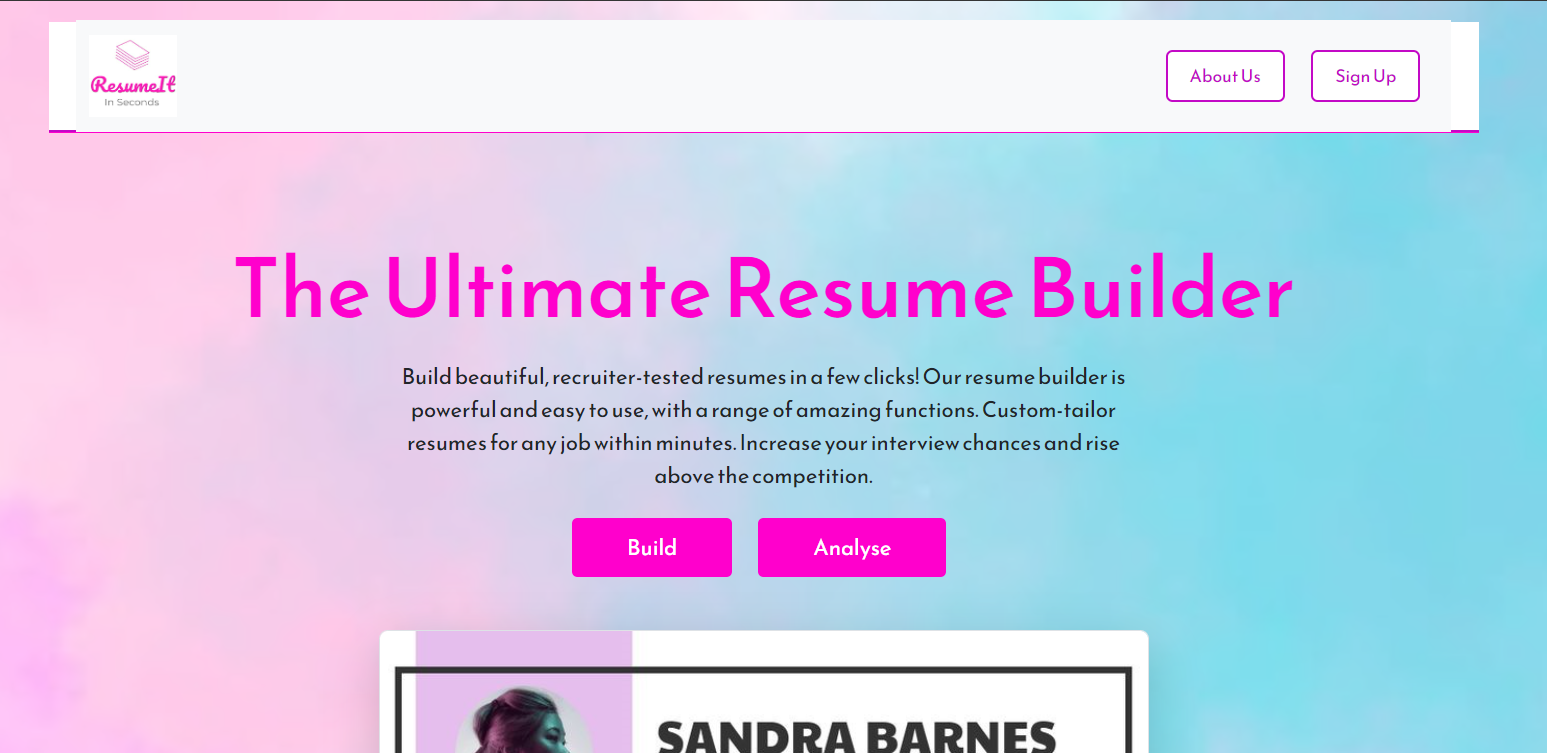
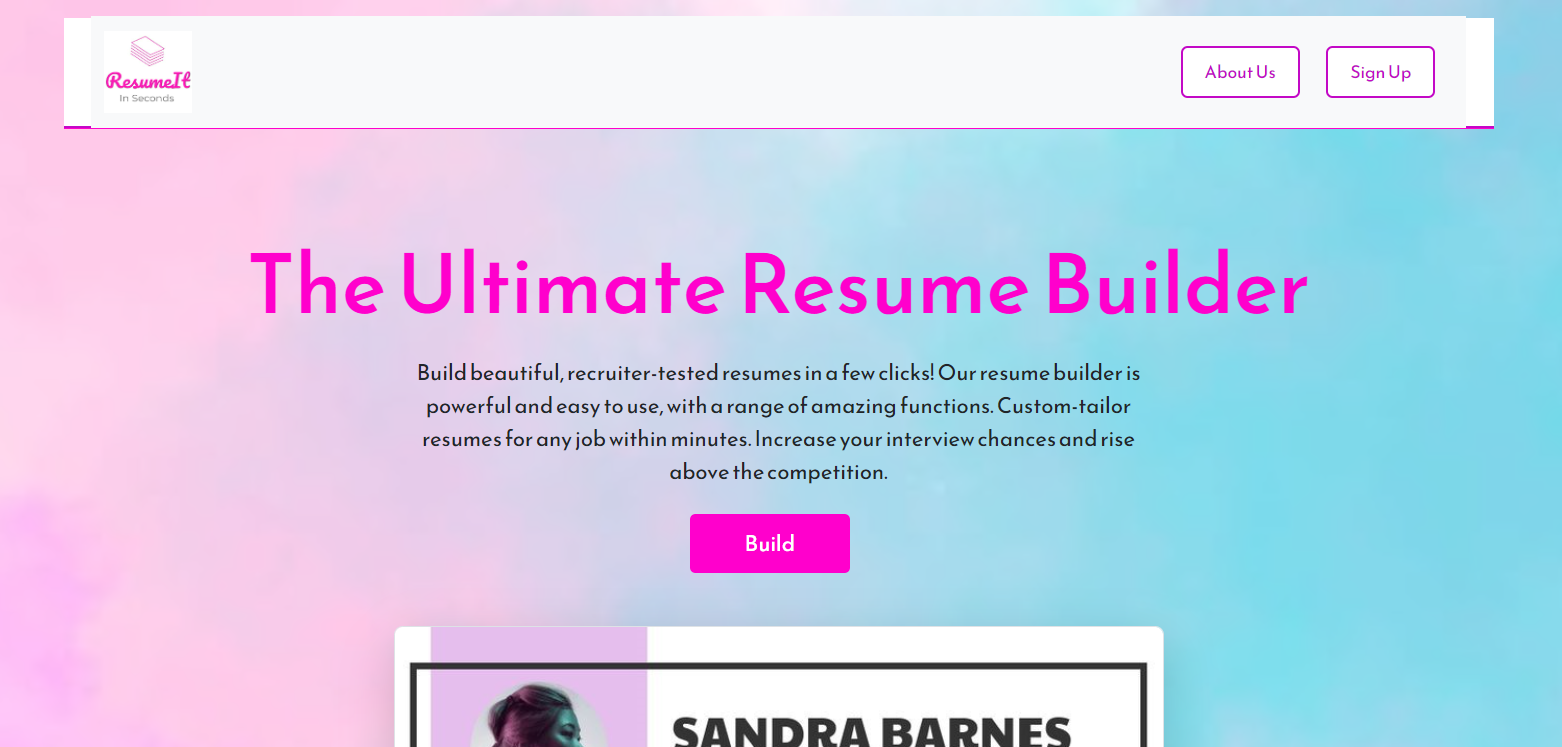
removed analyse button

diff --git a/src/LandComponents/Hero.js b/src/LandComponents/Hero.js
@@ -13,7 +13,6 @@ const Hero = () => {
                 <p className="lead mb-4">Build beautiful, recruiter-tested resumes in a few clicks! Our resume builder is powerful and easy to use, with a range of amazing functions. Custom-tailor resumes for any job within minutes. Increase your interview chances and rise above the competition.</p>
                 <div className="d-grid gap-2 d-sm-flex justify-content-sm-center mb-5"  >
                     <Link to="/login"><button type="button" className="btn btn-primary btn-lg px-5 me-sm-3" >Build</button></Link>
-                    <a href="https://google.com" target="_blank" rel="noopener noreferrer"><button type="button" className="btn btn-primary btn-lg px-5 me-sm-2 hover-effect">Analyse</button></a>
                 </div>
             </div>
             <div className='Resume'>

diff --git a/src/components/Body/Body.js b/src/components/Body/Body.js
@@ -79,9 +79,6 @@ function Body() {
             />
           ))}
         </div>
-              <button  style={{marginLeft:'410px'}}>
-                Analyze <ArrowDown />
-              </button>
         <ReactToPrint
           trigger={() => {
             return (
